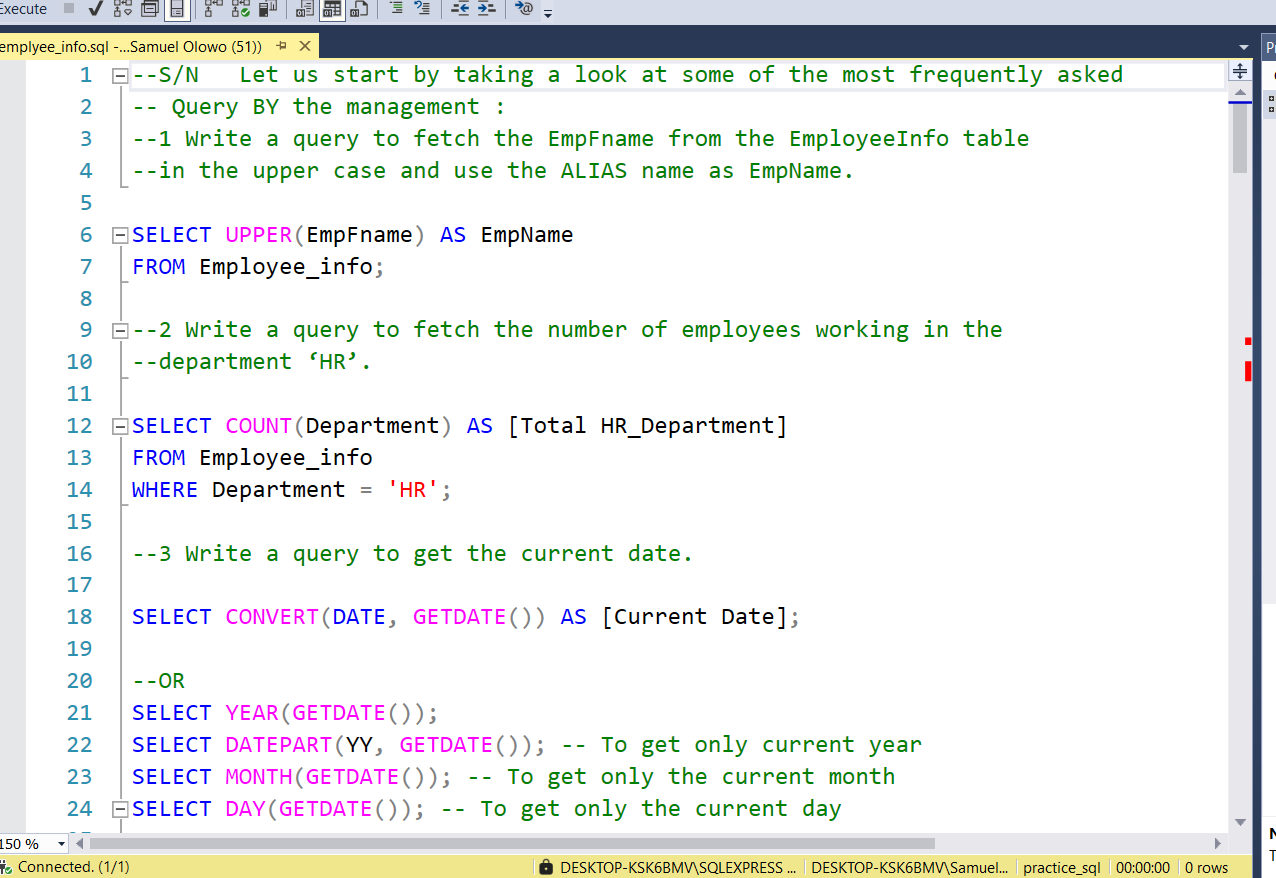
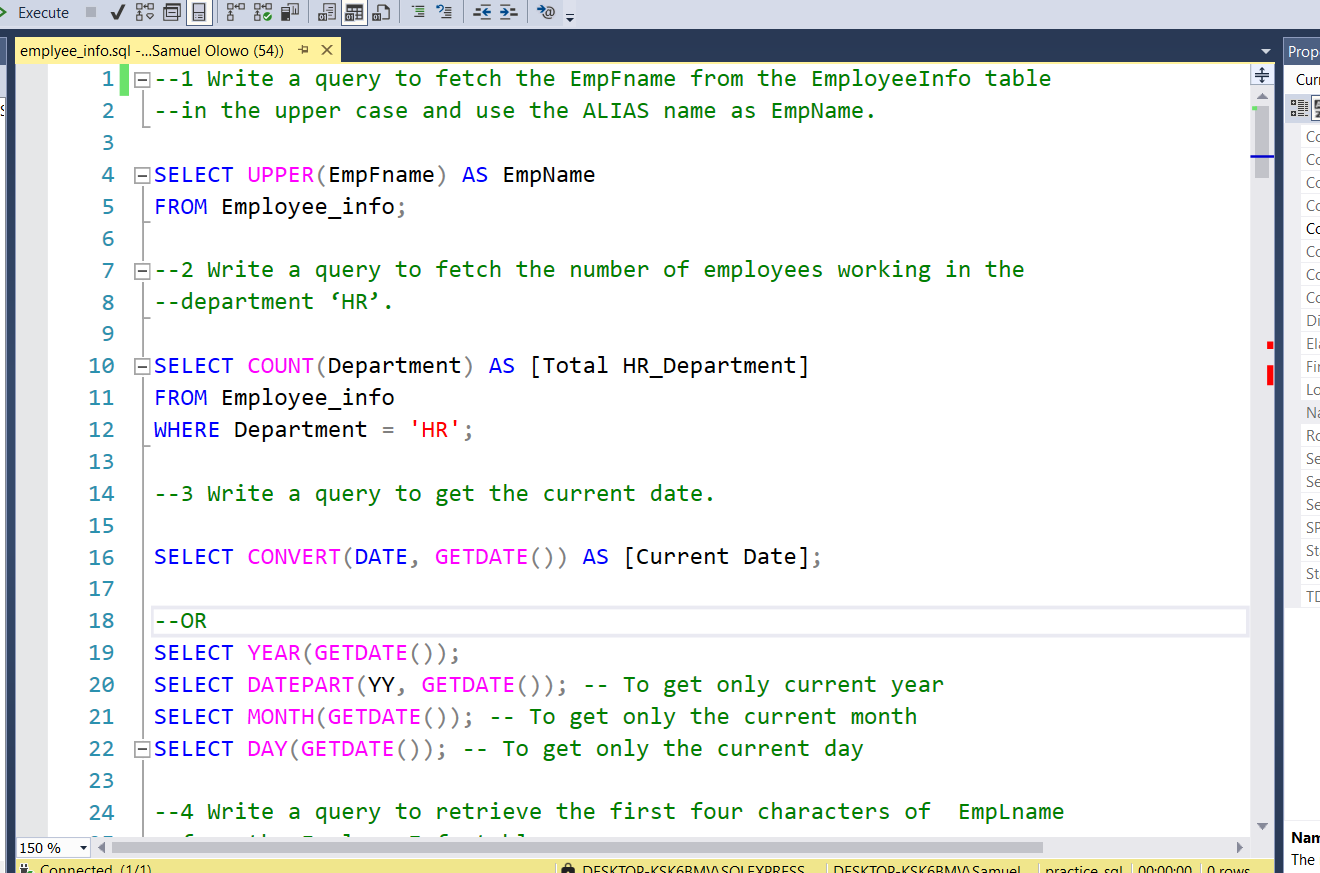
project details updates

Changed region(s): [[0.0, 0.0, 1.0, 1.0], [0.5196, 0.2784, 0.703, 0.3402], [0.7335, 0.2784, 0.7641, 0.3093]]

diff --git a/database_request.html b/database_request.html
@@ -44,9 +44,70 @@
 									<h1>Database Request</h1>
 									<p>SQL Queries to Populate Details on Different Departments From Employee Tables to Answer Questions</p>
 								</header>
-								<div class="image main"><img src="images/employee_dataset.png" alt="" /></div>
-								<p>Donec eget ex magna. Interdum et malesuada fames ac ante ipsum primis in faucibus. Pellentesque venenatis dolor imperdiet dolor mattis sagittis. Praesent rutrum sem diam, vitae egestas enim auctor sit amet. Pellentesque leo mauris, consectetur id ipsum sit amet, fergiat. Pellentesque in mi eu massa lacinia malesuada et a elit. Donec urna ex, lacinia in purus ac, pretium pulvinar mauris. Nunc lorem mauris, fringilla in aliquam at, euismod in lectus. Pellentesque habitant morbi tristique senectus et netus et malesuada fames ac turpis egestas. Curabitur sapien risus, commodo eget turpis at, elementum convallis enim turpis, lorem ipsum dolor sit amet nullam.</p>
-								<p>Lorem ipsum dolor sit amet, consectetur adipiscing elit. Duis dapibus rutrum facilisis. Class aptent taciti sociosqu ad litora torquent per conubia nostra, per inceptos himenaeos. Etiam tristique libero eu nibh porttitor fermentum. Nullam venenatis erat id vehicula viverra. Nunc ultrices eros ut ultricies condimentum. Mauris risus lacus, blandit sit amet venenatis non, bibendum vitae dolor. Nunc lorem mauris, fringilla in aliquam at, euismod in lectus. Pellentesque habitant morbi tristique senectus et netus et malesuada fames ac turpis egestas. In non lorem sit amet elit placerat maximus. Pellentesque aliquam maximus risus. Donec eget ex magna. Interdum et malesuada fames ac ante ipsum primis in faucibus. Pellentesque venenatis dolor imperdiet dolor mattis sagittis. Praesent rutrum sem diam, vitae egestas enim auctor sit amet. Pellentesque leo mauris, consectetur id ipsum.</p>
+								<!-- <div class="image main"><img src="images/employee_dataset.png" alt="" /></div> -->
+								<iframe src="./sql_db_request.html" width="100%" height="500px" style="border:none;"></iframe>
+								<p><em style="color: #8b949e;">Note: You can scroll through my SQL code above or view it on my Github via the link below.</em></p>
+								<hr>
+								<p><strong>SQL Code:</strong> <span><a href="https://github.com/donboab/samuel.portfolio/blob/main/assets/projects/emplyee_info.sql" target="_blank" rel="noopener noreferrer">Database Request SQL Code</a></span></p>
+								<h3>SQL Skills Used:</h3>
+								<p>
+									<ul>
+										<li><strong> Data Retrieval & Filtering:</strong> SELECT, WHERE, IN, NOT IN, BETWEEN, LIKE.</li>
+										<li><strong>String Manipulation:</strong> UPPER(), CONCAT(), SUBSTRING(), CHARINDEX(), LTRIM(), RTRIM(), COALESCE().
+										</li>
+										<li><strong>Date Handling:</strong> GETDATE(), CONVERT(), YEAR(), MONTH(), DAY(), DATEPART().
+										</li>
+										<li><strong>Aggregations & Grouping:</strong> COUNT(), GROUP BY, ORDER BY, HAVING.
+										</li>
+										<li><strong>Join Operations:</strong> INNER JOIN, RIGHT JOIN (to combine employee info with salary/position data).
+										</li>
+										<li><strong>Window Functions:</strong> RANK() OVER (ORDER BY ...) for top N salary rankings.
+										</li>
+										<li><strong>CTEs (Common Table Expressions):</strong>Used for intermediate logic and readable subqueries. 
+										</li>
+										<li><strong>Table Creation:</strong> SELECT INTO for creating new tables from existing datasets.
+										</li>
+										<li><strong>Result Set Union:</strong> UNION ALL to combine top and bottom salary data.
+										</li>
+										<li><strong>Alias Usage:</strong> Clear column and table aliasing for improved readability
+										</li>
+										<li><strong>Data Validation & Cleaning:</strong> Ensuring correct data types and consistent formatting for reliable analysis (implicit skill in query design)
+										</li>
+									</ul>
+								</p>
+								<h3>Project Description</h3>
+								<p>This project focuses on the analysis of structured employee datasets across two related tables (Employee_Details and Employee_Salary) to answer practical business questions and uncover key workforce insights. Through strategic SQL querying, it demonstrates the use of relational database principles to support human resource management, project allocation, and compensation analysis. The project objectives includes:
+									<p><strong>Data Structure & Tables:</strong></p>
+									<p>The analysis was based on two relational tables; (Employee_Info and Employee_Position). These table contains employee demographic details, departmental affiliations, job roles, compensation data etc.</p>
+									<p><strong>Query Objective Areas:</strong></p>
+									
+									<ul>
+										<li>Data formatting and transformation (e.g., name casing, string parsing).
+										</li>
+										<li>Filtering and pattern matching (e.g., employees with names starting or ending with specific letters).</li>
+										<li>Date manipulation and temporal analysis (e.g., filtering by date of birth or date of joining).
+										</li>
+										<li>Aggregation and grouping (e.g., department-wise employee count, gender-based segmentation).
+										</li>
+										<li>Salary and financial insights (e.g., range filters, top earners, min/max salary brackets).
+										</li>
+										<li>Table creation and joins for enriched analysis across tables.
+										</li>
+									</ul>
+									
+									<h3>Impact of the Project</h3>
+									<ul>
+										<li>Developed over 20 reusable SQL queries to support workforce and salary analysis.</li>
+										<li>Simulated real HR data tasks like employee segmentation, compensation analysis, and department summaries.</li>
+										<li>Delivered insights that can inform staffing decisions, compensation reviews, and talent analytics.
+										</li>
+									</ul>
+								</p>
+								<h3>Technology used:</h3>
+								 <p>SQL Server Management Studio (SSMS) for querying and analysis</p>
+								 <p>T-SQL (Transact-SQL)</p>
+								
+								<p><strong>View SQL File:</strong><a href="https://github.com/donboab/samuel.portfolio/blob/main/assets/projects/emplyee_info.sql" target="_blank" rel="noopener noreferrer"> Click to View Queries</a></p>
 							</section>
 
 					</div>

diff --git a/sql_db_request.html b/sql_db_request.html
@@ -1,0 +1,142 @@
+<!DOCTYPE HTML>
+<html lang="en">
+<html>
+	<head>
+		<title>Samuel Olowo</title>
+		<meta charset="utf-8" />
+		<meta name="viewport" content="width=device-width, initial-scale=1, user-scalable=no" />
+		<link rel="stylesheet" href="assets/css/main.css" />
+		<link rel="stylesheet" href="assets/css/portfolio.css">
+		<noscript><link rel="stylesheet" href="assets/css/noscript.css" /></noscript>
+  		<link rel="stylesheet" href="https://cdnjs.cloudflare.com/ajax/libs/highlight.js/11.9.0/styles/github-dark.min.css">
+  <script src="https://cdnjs.cloudflare.com/ajax/libs/highlight.js/11.9.0/highlight.min.js"></script>
+  <script>hljs.highlightAll();</script>
+	</head>
+	<body class="is-preload">
+		<pre><code class="language-sql">
+			
+			USE [practice_sql]
+			GO
+
+			SELECT [Empid]
+			      ,[Fullname]
+			      ,[ManagerID]
+			      ,[DataOfJoing]
+			      ,[City]
+			  FROM [dbo].[Employee_Details]
+			
+			GO
+			
+	----1	Write an SQL query to fetch the EmpId and FullName of all the employees 
+			--working under the Manager with id – ‘986’.
+			
+			SELECT
+					EmpID,
+					Fullname
+			FROM Employee_Details
+			WHERE ManagerID = '986';
+
+	----2	Write an SQL query to fetch the different projects available from the 
+			--EmployeeSalary table.
+			
+			SELECT Project
+			FROM Employee_Salary;
+			
+	----3	Write an SQL query to fetch the count of employees working in project ‘P1’.
+			
+			SELECT
+					COUNT(Empid)
+			FROM Employee_Salary
+			WHERE Project = 'P1';
+
+	----4	Write an SQL query to find the maximum, minimum, and average salary of the 
+			--employees.
+
+			SELECT 
+					MAX(Salary) AS Maximum_Salary,
+					MIN(Salary)	AS Minimum_Salary,
+					AVG(Salary) AS Average_Salary
+			FROM Employee_Salary;
+			
+	----5	Write an SQL query to find the employee id whose salary lies in the range of 
+			--9000 and 15000.
+
+			SELECT	EmpId
+			FROM	Employee_Salary
+			WHERE Salary BETWEEN 9000 AND 15000
+
+			--if need to show with names
+
+			SELECT	es.EmpId,
+					ed.fullname
+			FROM Employee_Salary AS es
+			LEFT JOIN Employee_Details AS ed
+			ON es.Empid = ed.Empid
+			WHERE Salary BETWEEN 9000 AND 15000;
+			
+	----6	Write an SQL query to fetch those employees who live in Toronto and work under 
+			--the manager with ManagerId – 321.
+
+			SELECT	*
+			FROM	Employee_Details
+			WHERE	City = 'Toronto' AND ManagerID = '321';
+			
+	----7	Write an SQL query to fetch all the employees who either live in California 
+			--or work under a manager with ManagerId – 321.
+
+			SELECT	*
+			FROM Employee_Details
+			WHERE City = 'California' OR ManagerID = '321';
+			
+	----8	Write an SQL query to fetch all those employees who work on Projects other 
+			--than P1.
+
+			SELECT	ed.Empid,
+					ed.Fullname,
+					es.Project
+			FROM	Employee_Details AS ed
+			FULL JOIN Employee_Salary AS es 
+			ON ed.Empid = es.EmpId
+			WHERE Project NOT IN ('P1');
+			
+	----9	Write an SQL query to display the total salary of each employee adding the 
+			--Salary with Variable value.
+
+			SELECT	es.EmpId,
+					ed.Fullname,
+					SUM(Salary + Variable) AS Total_Salary
+			FROM Employee_Salary AS es
+			LEFT JOIN Employee_Details AS ed
+			ON es.Empid = ed.Empid
+			GROUP BY es.Empid, ed.Fullname;
+
+	----10	Write an SQL query to fetch the employees whose name begins with any two 
+			--characters, followed by a text “hn” and ends with any sequence of characters.
+
+			SELECT *
+			FROM Employee_Details
+			WHERE Fullname like '__hn%';
+			
+	----11	Write an SQL query to fetch all the EmpIds which are present in either of 
+			--the tables – ‘EmployeeDetails’ and ‘EmployeeSalary’.
+
+			SELECT ed.EmpId
+			FROM Employee_Details AS ed
+			FULL JOIN Employee_Salary AS es
+			ON ed.Empid = es.Empid;
+			
+	--- if names and salaries are needed
+			
+			SELECT	ed.EmpId,
+					ed.fullname,
+					es.Salary
+			FROM Employee_Details AS ed
+			FULL JOIN Employee_Salary AS es
+			ON ed.Empid = es.Empid;
+
+
+
+	</code></pre>
+
+	</body>
+</html>
